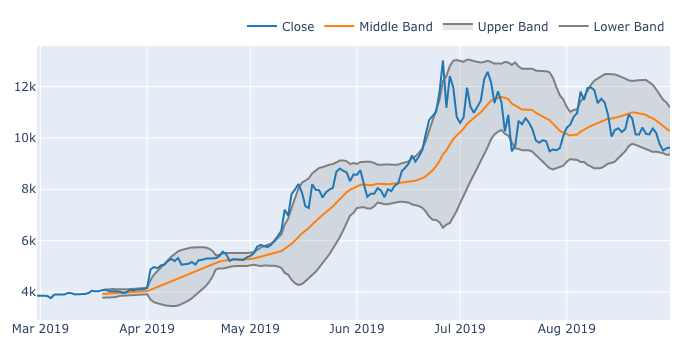
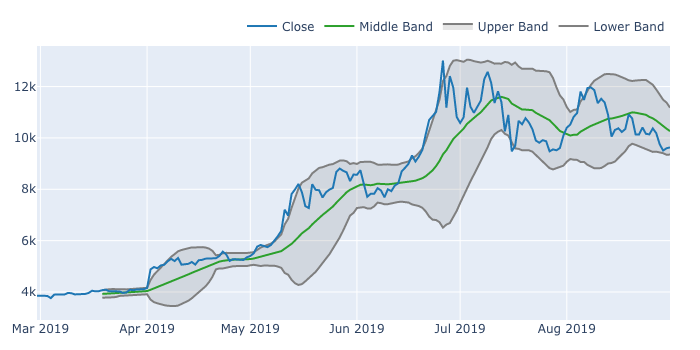
Update default color selection

diff --git a/vectorbt/indicators/basic.py b/vectorbt/indicators/basic.py
@@ -62,6 +62,7 @@ class MA(MA):
 
     def plot(self,
              column=None,
+             show_close=True,
              close_trace_kwargs=None,
              ma_trace_kwargs=None,
              row=None, col=None,
@@ -71,6 +72,7 @@ class MA(MA):
 
         Args:
             column (str): Name of the column to plot.
+            show_close (bool): Whether to show `MA.close`.
             close_trace_kwargs (dict): Keyword arguments passed to `plotly.graph_objects.Scatter` for `MA.close`.
             ma_trace_kwargs (dict): Keyword arguments passed to `plotly.graph_objects.Scatter` for `MA.ma`.
             row (int): Row position.
@@ -83,7 +85,7 @@ class MA(MA):
             ```
 
             ![](/vectorbt/docs/img/MA.png)"""
-        from vectorbt.defaults import layout
+        from vectorbt.defaults import color_schema
 
         self_col = self.force_select_column(column)
 
@@ -97,16 +99,16 @@ class MA(MA):
             ma_trace_kwargs = {}
         close_trace_kwargs = merge_kwargs(dict(
             name='Close',
-            line_color=layout['colorway'][0]
+            line_color=color_schema['blue']
         ), close_trace_kwargs)
         ma_trace_kwargs = merge_kwargs(dict(
-            name='MA',
-            line_color=layout['colorway'][1]
+            name='MA'
         ), ma_trace_kwargs)
 
-        fig = self_col.close.vbt.plot(
-            trace_kwargs=close_trace_kwargs,
-            row=row, col=col, fig=fig)
+        if show_close:
+            fig = self_col.close.vbt.plot(
+                trace_kwargs=close_trace_kwargs,
+                row=row, col=col, fig=fig)
         fig = self_col.ma.vbt.plot(
             trace_kwargs=ma_trace_kwargs,
             row=row, col=col, fig=fig)
@@ -160,8 +162,6 @@ class MSTD(MSTD):
             ```
 
             ![](/vectorbt/docs/img/MSTD.png)"""
-        from vectorbt.defaults import layout
-
         self_col = self.force_select_column(column)
 
         if fig is None:
@@ -171,8 +171,7 @@ class MSTD(MSTD):
         if mstd_trace_kwargs is None:
             mstd_trace_kwargs = {}
         mstd_trace_kwargs = merge_kwargs(dict(
-            name='MSTD',
-            line_color=layout['colorway'][0]
+            name='MSTD'
         ), mstd_trace_kwargs)
 
         fig = self_col.mstd.vbt.plot(
@@ -220,6 +219,7 @@ class BBANDS(BBANDS):
 
     def plot(self,
              column=None,
+             show_close=True,
              close_trace_kwargs=None,
              middle_trace_kwargs=None,
              upper_trace_kwargs=None,
@@ -232,6 +232,7 @@ class BBANDS(BBANDS):
 
         Args:
             column (str): Name of the column to plot.
+            show_close (bool): Whether to show `MA.close`.
             close_trace_kwargs (dict): Keyword arguments passed to `plotly.graph_objects.Scatter` for `BBANDS.close`.
             middle_trace_kwargs (dict): Keyword arguments passed to `plotly.graph_objects.Scatter` for `BBANDS.middle`.
             upper_trace_kwargs (dict): Keyword arguments passed to `plotly.graph_objects.Scatter` for `BBANDS.upper`.
@@ -246,7 +247,7 @@ class BBANDS(BBANDS):
             ```
 
             ![](/vectorbt/docs/img/BBANDS.png)"""
-        from vectorbt.defaults import layout, color_schema
+        from vectorbt.defaults import color_schema
 
         self_col = self.force_select_column(column)
 
@@ -273,12 +274,11 @@ class BBANDS(BBANDS):
             fillcolor='rgba(128, 128, 128, 0.2)'
         ), upper_trace_kwargs)  # default kwargs
         middle_trace_kwargs = merge_kwargs(dict(
-            name='Middle Band',
-            line=dict(color=layout['colorway'][1])
+            name='Middle Band'
         ), middle_trace_kwargs)
         close_trace_kwargs = merge_kwargs(dict(
             name='Close',
-            line=dict(color=layout['colorway'][0])
+            line=dict(color=color_schema['blue'])
         ), close_trace_kwargs)
 
         fig = self_col.lower.vbt.plot(
@@ -290,9 +290,10 @@ class BBANDS(BBANDS):
         fig = self_col.middle.vbt.plot(
             trace_kwargs=middle_trace_kwargs,
             row=row, col=col, fig=fig)
-        fig = self_col.close.vbt.plot(
-            trace_kwargs=close_trace_kwargs,
-            row=row, col=col, fig=fig)
+        if show_close:
+            fig = self_col.close.vbt.plot(
+                trace_kwargs=close_trace_kwargs,
+                row=row, col=col, fig=fig)
 
         return fig
 
@@ -353,8 +354,6 @@ class RSI(RSI):
             ```
 
             ![](/vectorbt/docs/img/RSI.png)"""
-        from vectorbt.defaults import layout
-
         self_col = self.force_select_column(column)
 
         if fig is None:
@@ -367,8 +366,7 @@ class RSI(RSI):
         if rsi_trace_kwargs is None:
             rsi_trace_kwargs = {}
         rsi_trace_kwargs = merge_kwargs(dict(
-            name='RSI',
-            line=dict(color=layout['colorway'][0])
+            name='RSI'
         ), rsi_trace_kwargs)
 
         fig = self_col.rsi.vbt.plot(
@@ -453,8 +451,6 @@ class STOCH(STOCH):
             ```
 
             ![](/vectorbt/docs/img/STOCH.png)"""
-        from vectorbt.defaults import layout
-
         self_col = self.force_select_column(column)
 
         if fig is None:
@@ -471,12 +467,10 @@ class STOCH(STOCH):
         if shape_kwargs is None:
             shape_kwargs = {}
         percent_k_trace_kwargs = merge_kwargs(dict(
-            name='%K',
-            line=dict(color=layout['colorway'][0])
+            name='%K'
         ), percent_k_trace_kwargs)
         percent_d_trace_kwargs = merge_kwargs(dict(
-            name='%D',
-            line=dict(color=layout['colorway'][1])
+            name='%D'
         ), percent_d_trace_kwargs)
 
         fig = self_col.percent_k.vbt.plot(
@@ -565,8 +559,6 @@ class MACD(MACD):
             ```
 
             ![](/vectorbt/docs/img/MACD.png)"""
-        from vectorbt.defaults import layout
-
         self_col = self.force_select_column(column)
 
         if fig is None:
@@ -581,12 +573,10 @@ class MACD(MACD):
         if hist_trace_kwargs is None:
             hist_trace_kwargs = {}
         macd_trace_kwargs = merge_kwargs(dict(
-            name='MACD',
-            line=dict(color=layout['colorway'][0])
+            name='MACD'
         ), macd_trace_kwargs)
         signal_trace_kwargs = merge_kwargs(dict(
-            name='Signal',
-            line=dict(color=layout['colorway'][1])
+            name='Signal'
         ), signal_trace_kwargs)
         hist_trace_kwargs = merge_kwargs(dict(name='Histogram'), hist_trace_kwargs)
 
@@ -668,8 +658,6 @@ class ATR(ATR):
             ```
 
             ![](/vectorbt/docs/img/ATR.png)"""
-        from vectorbt.defaults import layout
-
         self_col = self.force_select_column(column)
 
         if fig is None:
@@ -681,12 +669,10 @@ class ATR(ATR):
         if atr_trace_kwargs is None:
             atr_trace_kwargs = {}
         tr_trace_kwargs = merge_kwargs(dict(
-            name='TR',
-            line=dict(color=layout['colorway'][0])
+            name='TR'
         ), tr_trace_kwargs)
         atr_trace_kwargs = merge_kwargs(dict(
-            name='ATR',
-            line=dict(color=layout['colorway'][1])
+            name='ATR'
         ), atr_trace_kwargs)
 
         fig = self_col.tr.vbt.plot(
@@ -743,8 +729,6 @@ class OBV(OBV):
             ```
 
             ![](/vectorbt/docs/img/OBV.png)"""
-        from vectorbt.defaults import layout
-
         self_col = self.force_select_column(column)
 
         if fig is None:
@@ -754,8 +738,7 @@ class OBV(OBV):
         if obv_trace_kwargs is None:
             obv_trace_kwargs = {}
         obv_trace_kwargs = merge_kwargs(dict(
-            name='OBV',
-            line=dict(color=layout['colorway'][0])
+            name='OBV'
         ), obv_trace_kwargs)
 
         fig = self_col.obv.vbt.plot(

diff --git a/vectorbt/returns/accessors.py b/vectorbt/returns/accessors.py
@@ -380,7 +380,7 @@ class Returns_SRAccessor(Returns_Accessor, Generic_SRAccessor):
             ```
 
             ![](/vectorbt/docs/img/plot_cum_returns.png)"""
-        from vectorbt.defaults import layout, color_schema
+        from vectorbt.defaults import color_schema
 
         if fig is None:
             fig = CustomFigureWidget()
@@ -413,9 +413,6 @@ class Returns_SRAccessor(Returns_Accessor, Generic_SRAccessor):
         if main_kwargs is None:
             main_kwargs = {}
         main_kwargs = merge_kwargs(dict(
-            trace_kwargs=dict(
-                line_color=layout['colorway'][0]
-            ),
             other_trace_kwargs='hidden'
         ), main_kwargs)
         cumrets = self.cumulative(start_value=start_value)

diff --git a/vectorbt/generic/drawdowns.py b/vectorbt/generic/drawdowns.py
@@ -292,7 +292,7 @@ class Drawdowns(Records):
             ```
 
             ![](/vectorbt/docs/img/drawdowns_plot.png)"""
-        from vectorbt.defaults import layout, contrast_color_schema
+        from vectorbt.defaults import color_schema, contrast_color_schema
 
         self_col = self.force_select_column(column)
         if top_n is not None:
@@ -301,7 +301,7 @@ class Drawdowns(Records):
         if ts_trace_kwargs is None:
             ts_trace_kwargs = {}
         ts_trace_kwargs = merge_kwargs(dict(
-            line_color=layout['colorway'][0]
+            line_color=color_schema['blue']
         ), ts_trace_kwargs)
         if peak_trace_kwargs is None:
             peak_trace_kwargs = {}

diff --git a/vectorbt/portfolio/trades.py b/vectorbt/portfolio/trades.py
@@ -538,14 +538,14 @@ class Trades(Records):
             ```
 
             ![](/vectorbt/docs/img/trades_plot.png)"""
-        from vectorbt.defaults import layout, contrast_color_schema
+        from vectorbt.defaults import color_schema, contrast_color_schema
 
         self_col = self.force_select_column(column)
 
         if close_trace_kwargs is None:
             close_trace_kwargs = {}
         close_trace_kwargs = merge_kwargs(dict(
-            line_color=layout['colorway'][0],
+            line_color=color_schema['blue'],
             name='Close' if self_col.close.name is None else self_col.close.name
         ), close_trace_kwargs)
         if entry_trace_kwargs is None:

diff --git a/vectorbt/portfolio/orders.py b/vectorbt/portfolio/orders.py
@@ -158,14 +158,14 @@ class Orders(Records):
             ```
 
             ![](/vectorbt/docs/img/orders_plot.png)"""
-        from vectorbt.defaults import layout, contrast_color_schema
+        from vectorbt.defaults import color_schema, contrast_color_schema
 
         self_col = self.force_select_column(column)
 
         if close_trace_kwargs is None:
             close_trace_kwargs = {}
         close_trace_kwargs = merge_kwargs(dict(
-            line_color=layout['colorway'][0],
+            line_color=color_schema['blue'],
             name='Close' if self_col.close.name is None else self_col.close.name
         ), close_trace_kwargs)
         if buy_trace_kwargs is None:

diff --git a/vectorbt/utils/widgets.py b/vectorbt/utils/widgets.py
@@ -13,6 +13,7 @@ class CustomFigure(go.Figure):
         layout = kwargs.pop('layout', {})
         super().__init__(*args, **kwargs)
         self.update_layout(**defaults.layout)
+        self.update_layout(colorway=list(defaults.color_schema.values()))
         self.update_layout(**layout)
 
     def show_png(self):
@@ -30,6 +31,7 @@ class CustomFigureWidget(go.FigureWidget):
         layout = kwargs.pop('layout', {})
         super().__init__(*args, **kwargs)
         self.update_layout(**defaults.layout)
+        self.update_layout(colorway=list(defaults.color_schema.values()))
         self.update_layout(**layout)
 
     def show_png(self):

diff --git a/vectorbt/defaults.py b/vectorbt/defaults.py
@@ -20,6 +20,7 @@ __pdoc__ = {}
 
 # Color schema
 color_schema = Config(
+    frozen=False,  # you can change the keys
     blue="#1f77b4",
     orange="#ff7f0e",
     green="#2ca02c",
@@ -42,6 +43,7 @@ __pdoc__['color_schema'] = f"""Color schema.
 
 # Contrast color schema
 contrast_color_schema = Config(
+    frozen=False,  # you can change the keys
     blue='#4285F4',
     orange='#FFAA00',
     green='#37B13F',
@@ -67,7 +69,6 @@ layout = Config(
         t=30, b=30, l=30, r=30
     ),
     hovermode='closest',
-    colorway=list(color_schema.values()),
     legend=dict(
         orientation="h",
         yanchor="bottom",
